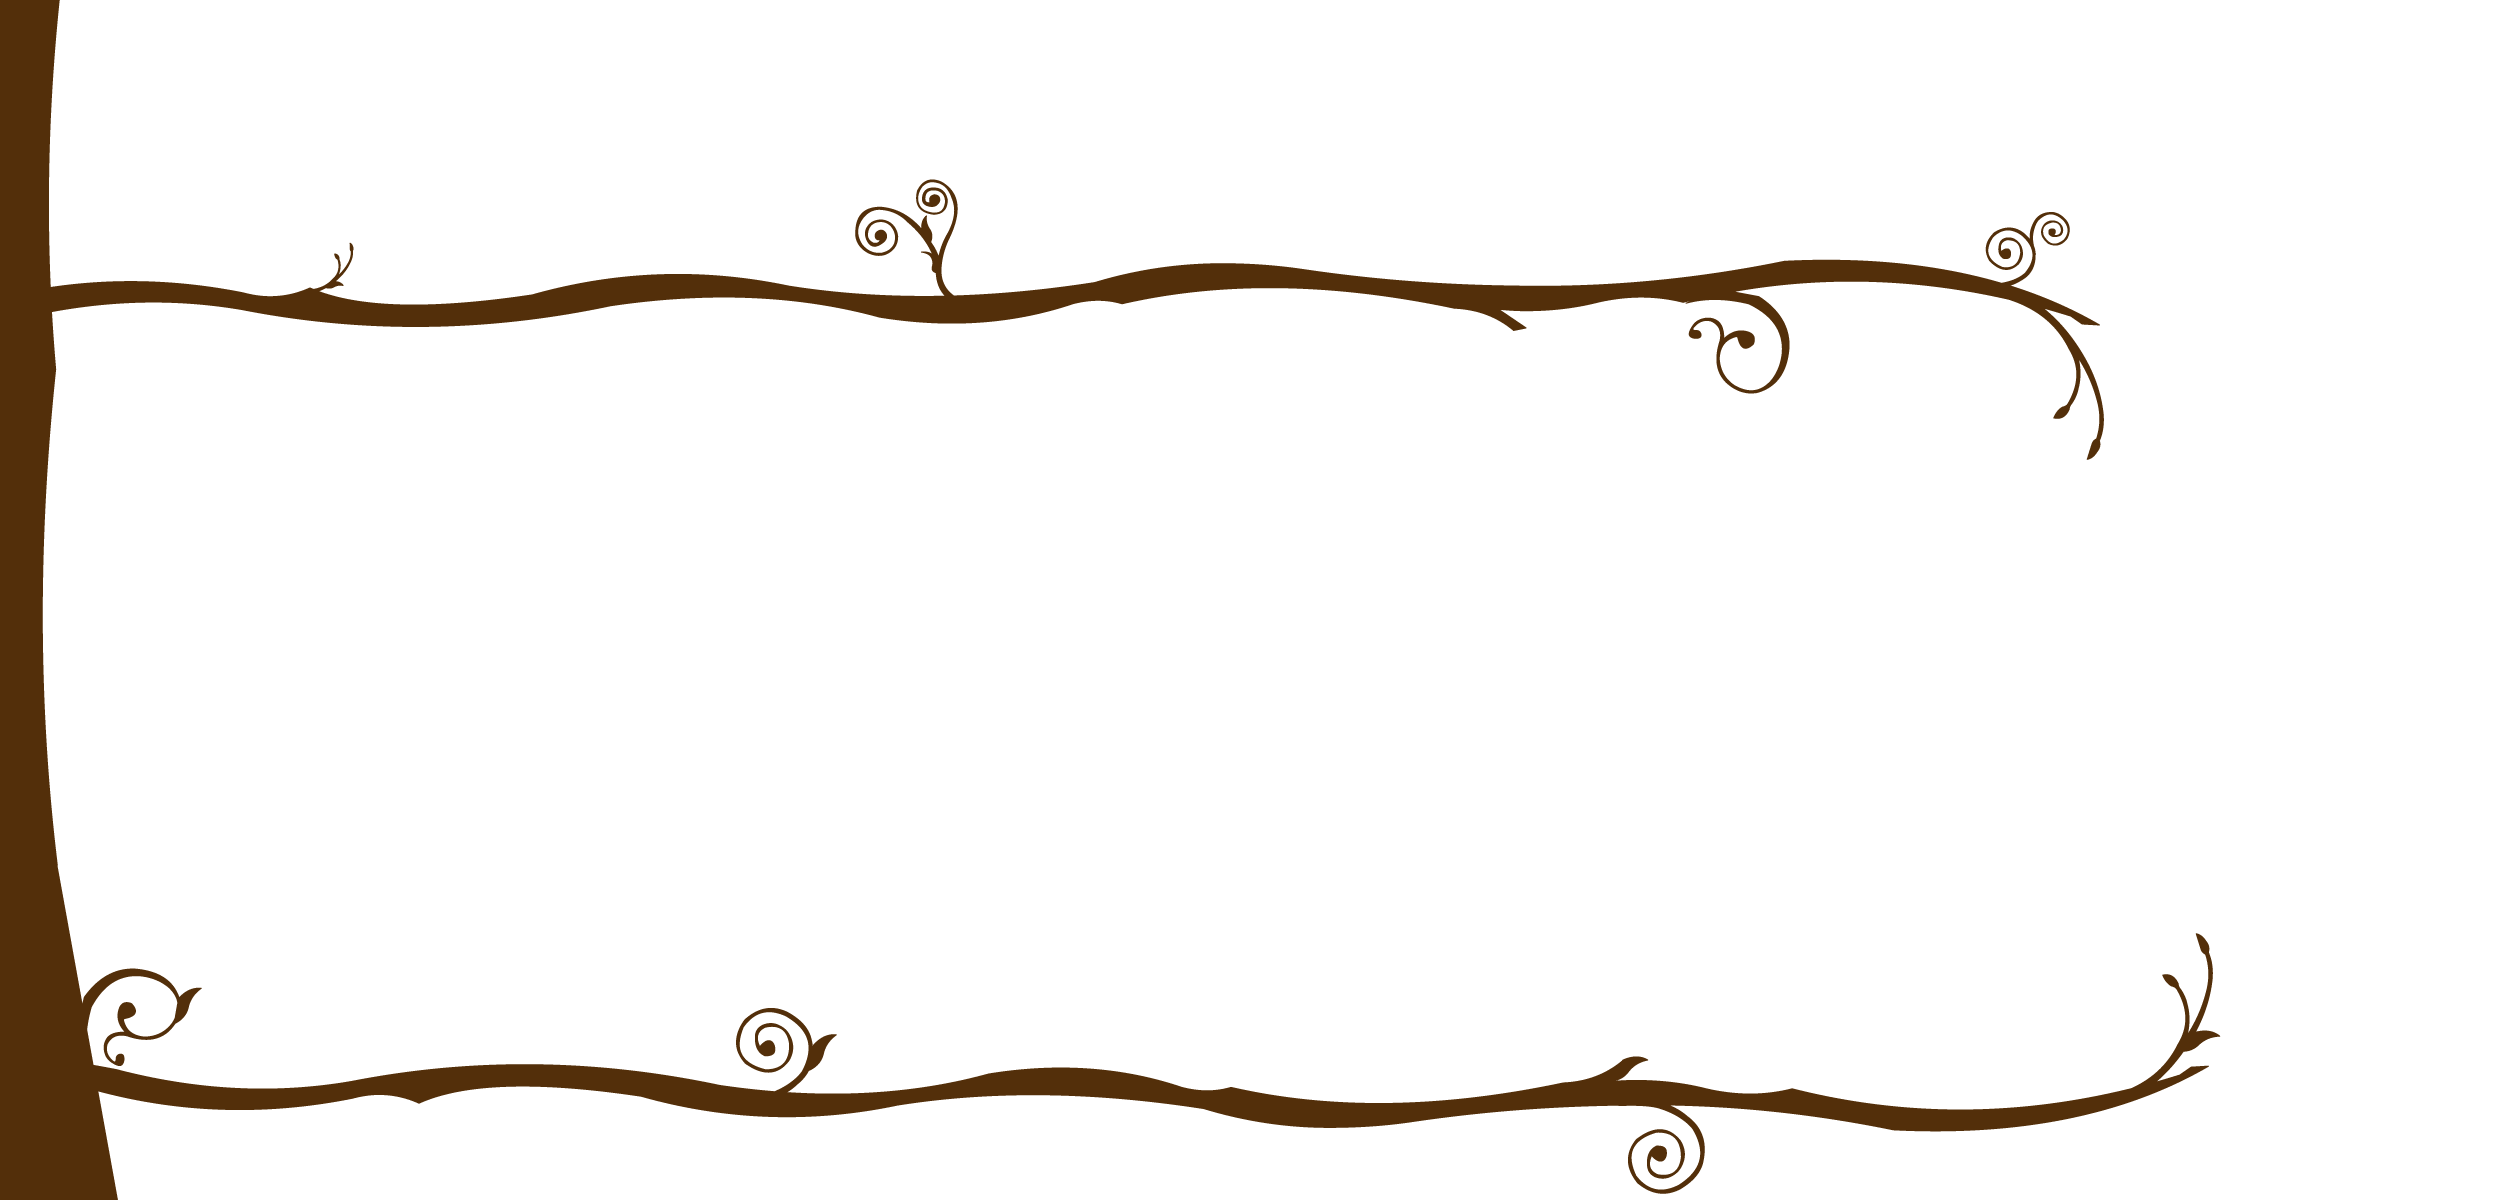
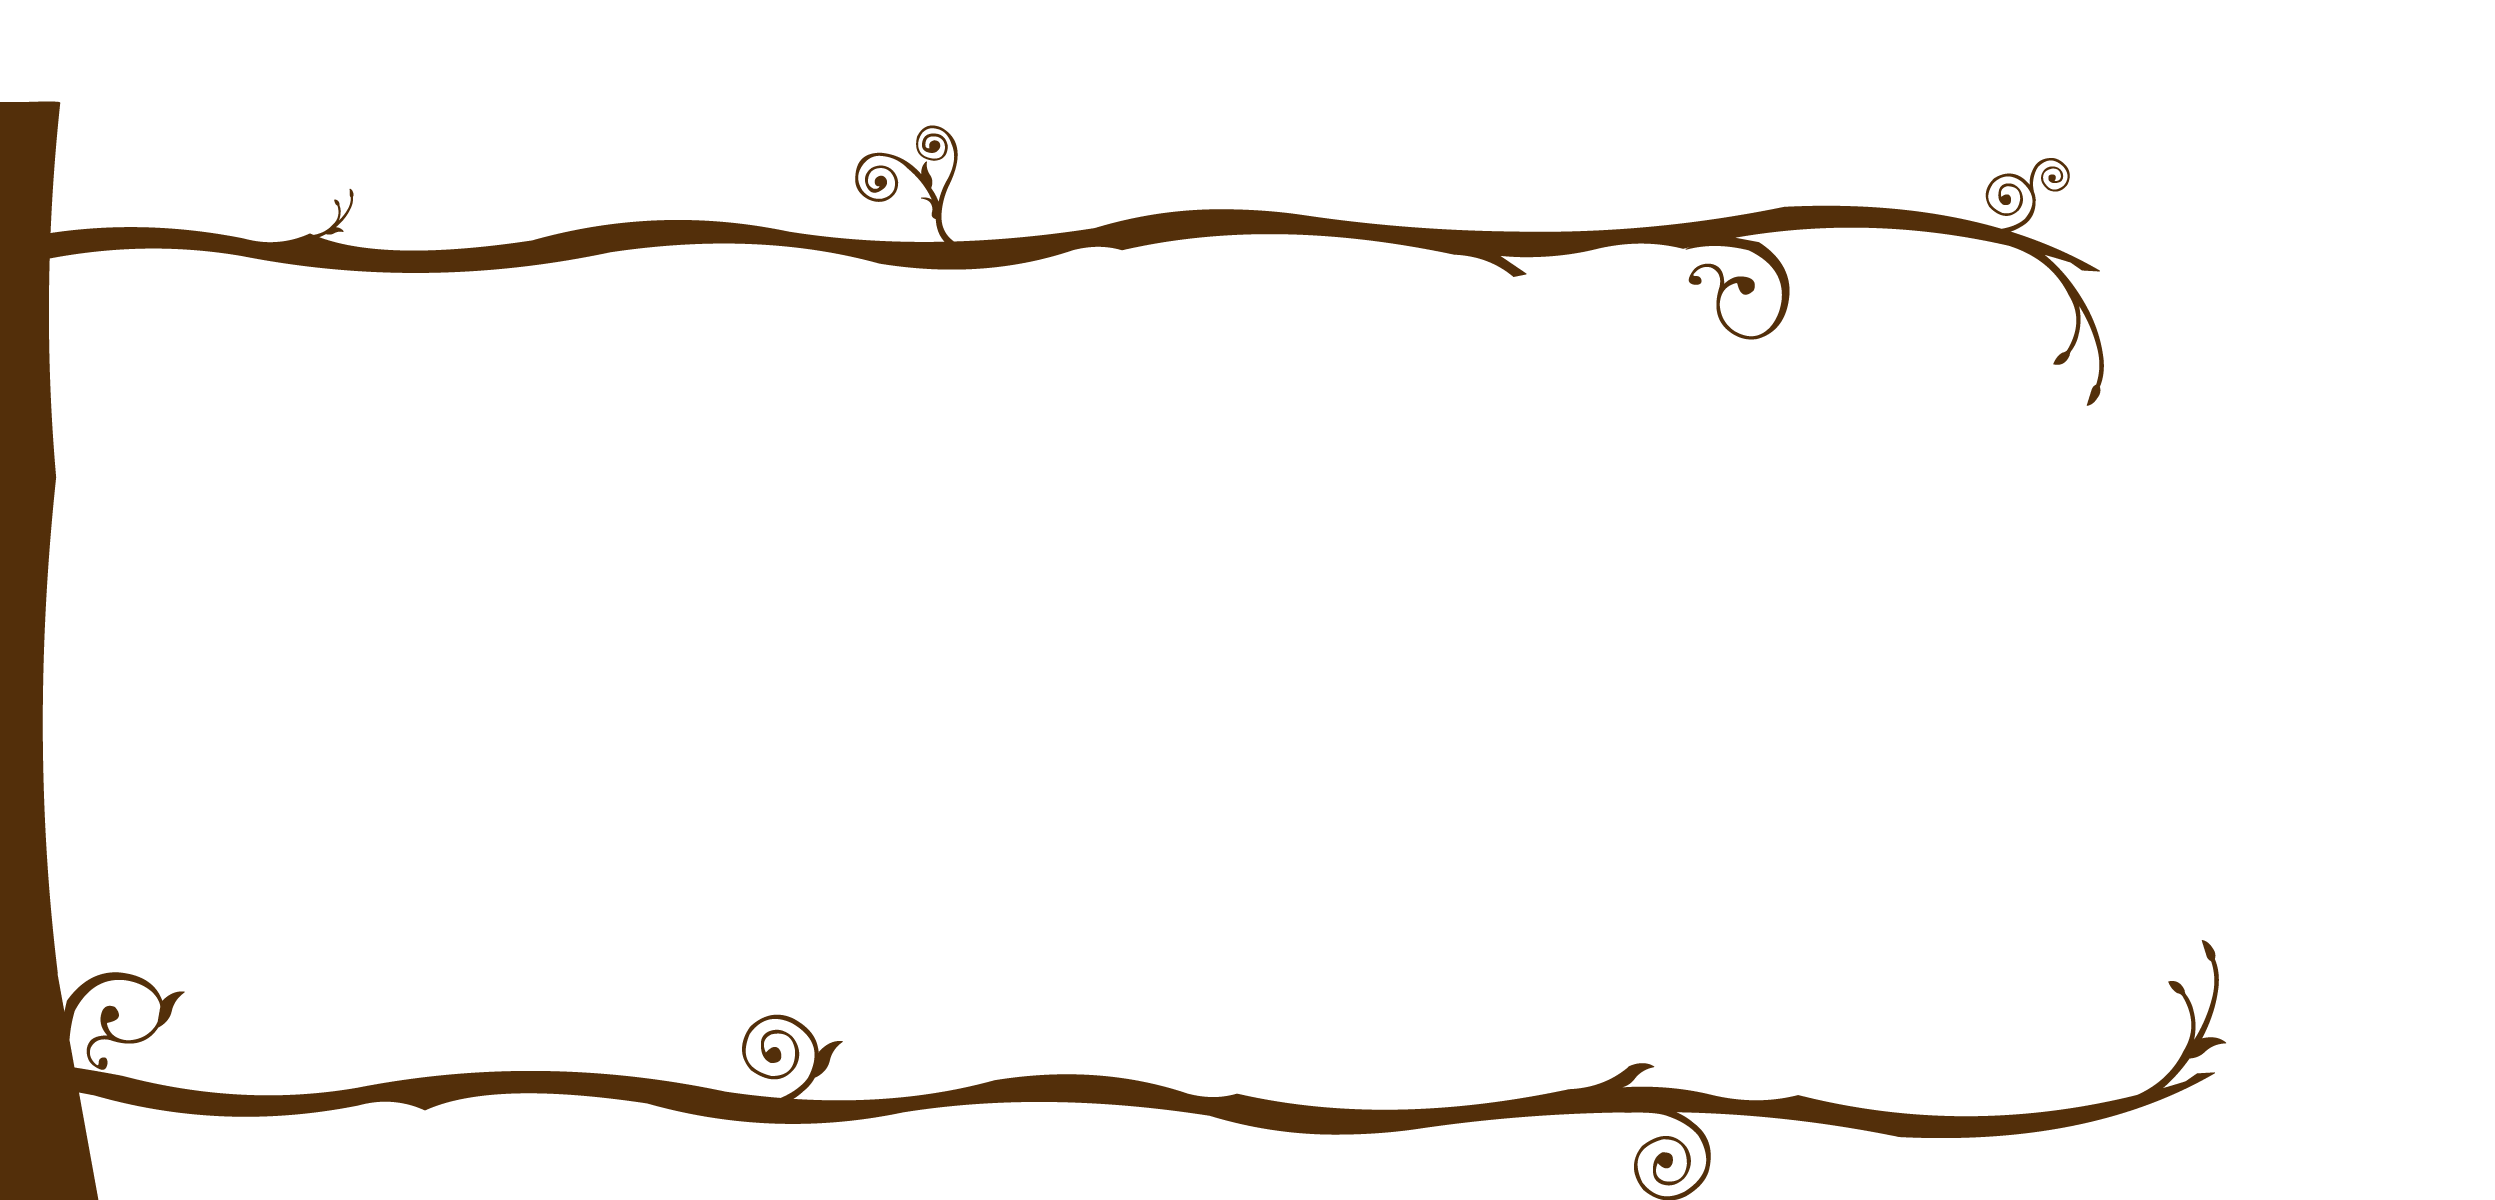
backgrounds

diff --git a/index.html b/index.html
@@ -108,7 +108,7 @@ function MM_swapImage() { //v3.0
       <div class="slide aa"><img src="img/aaowl.png" alt="animate owl"/></div>
     </div>
     <div class="section"><div class="aboutme"></div></div>
-<div class="section">
+<div class="section"><div class="slide project"></div>
 		<div class="slide"><div class="grid-container">
   <div class="item1"><h2>Class: GWDA236 Web Standards
 </h2><p>Assignment: Group project - create a website that showcases html5 and CSS3</p></div>

diff --git a/css/styles.css b/css/styles.css
@@ -110,3 +110,12 @@ body {
 	background-repeat: no-repeat;
 	background-size: cover;
 }
+
+.project {
+	width: 100%;
+	height: 100%;
+	position: relative;
+	background-image: url(../img/projecttree.png);
+	background-repeat: no-repeat;
+	background-size: cover;
+}
